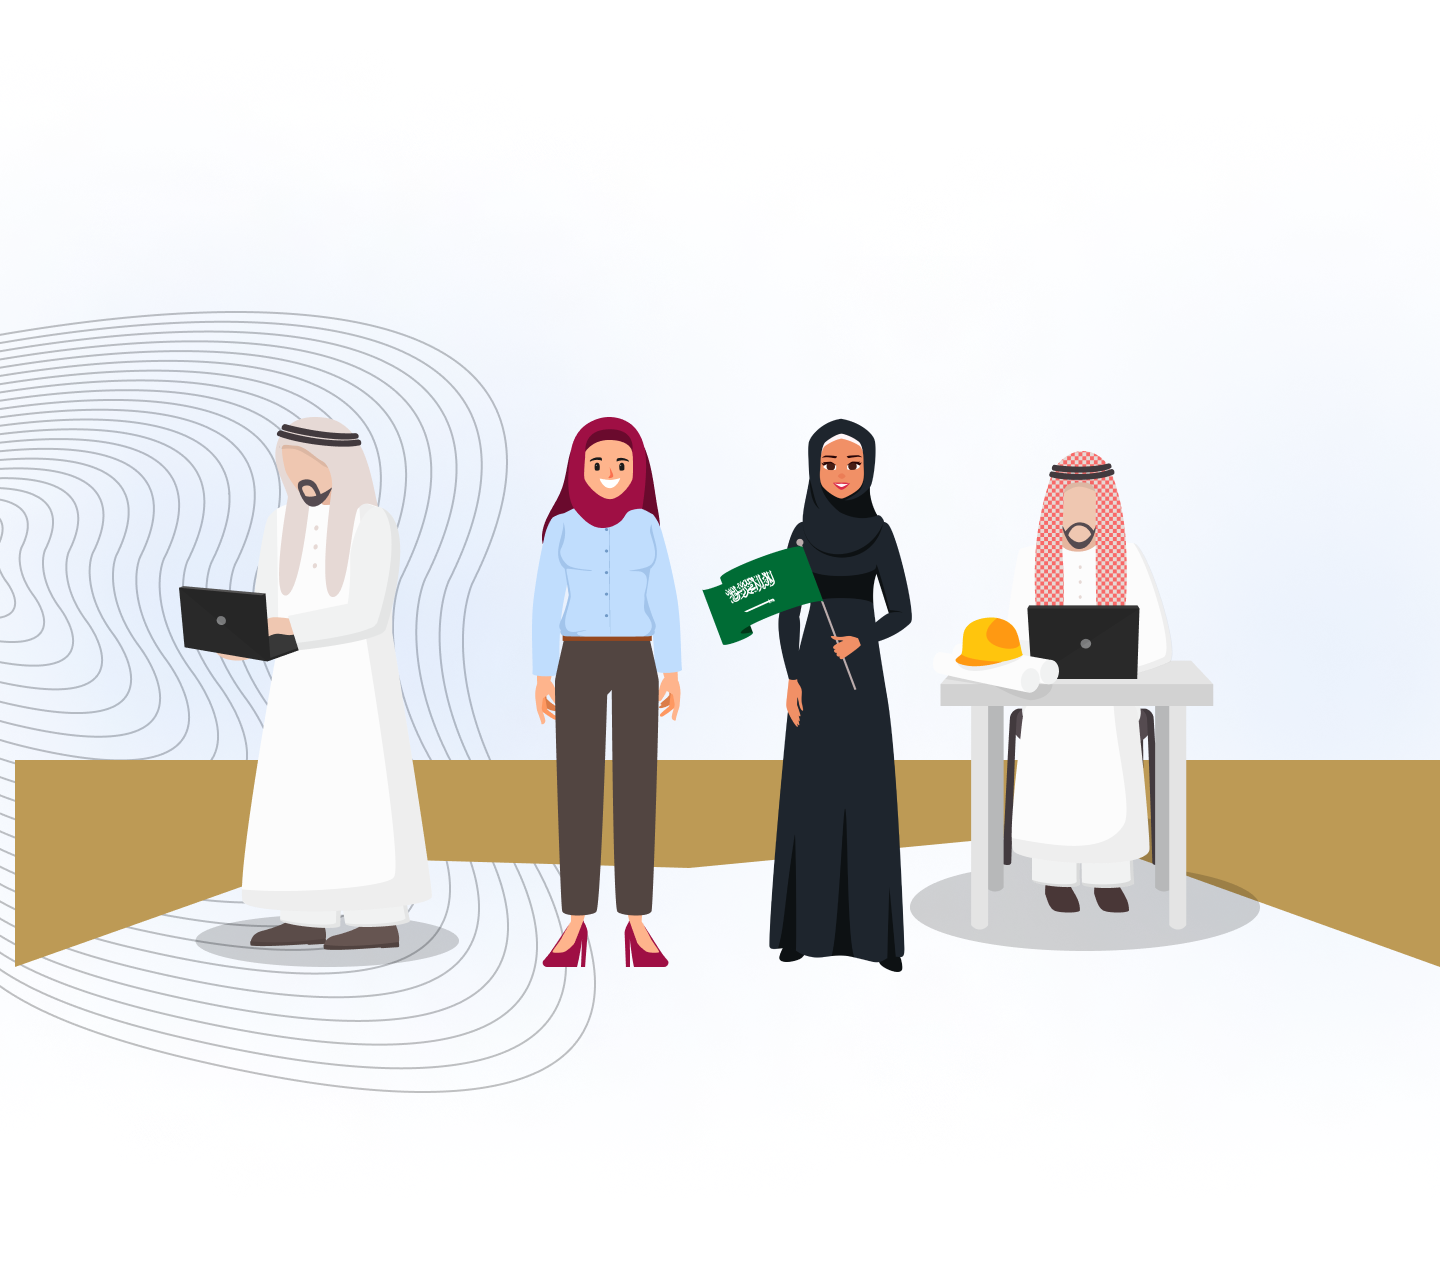
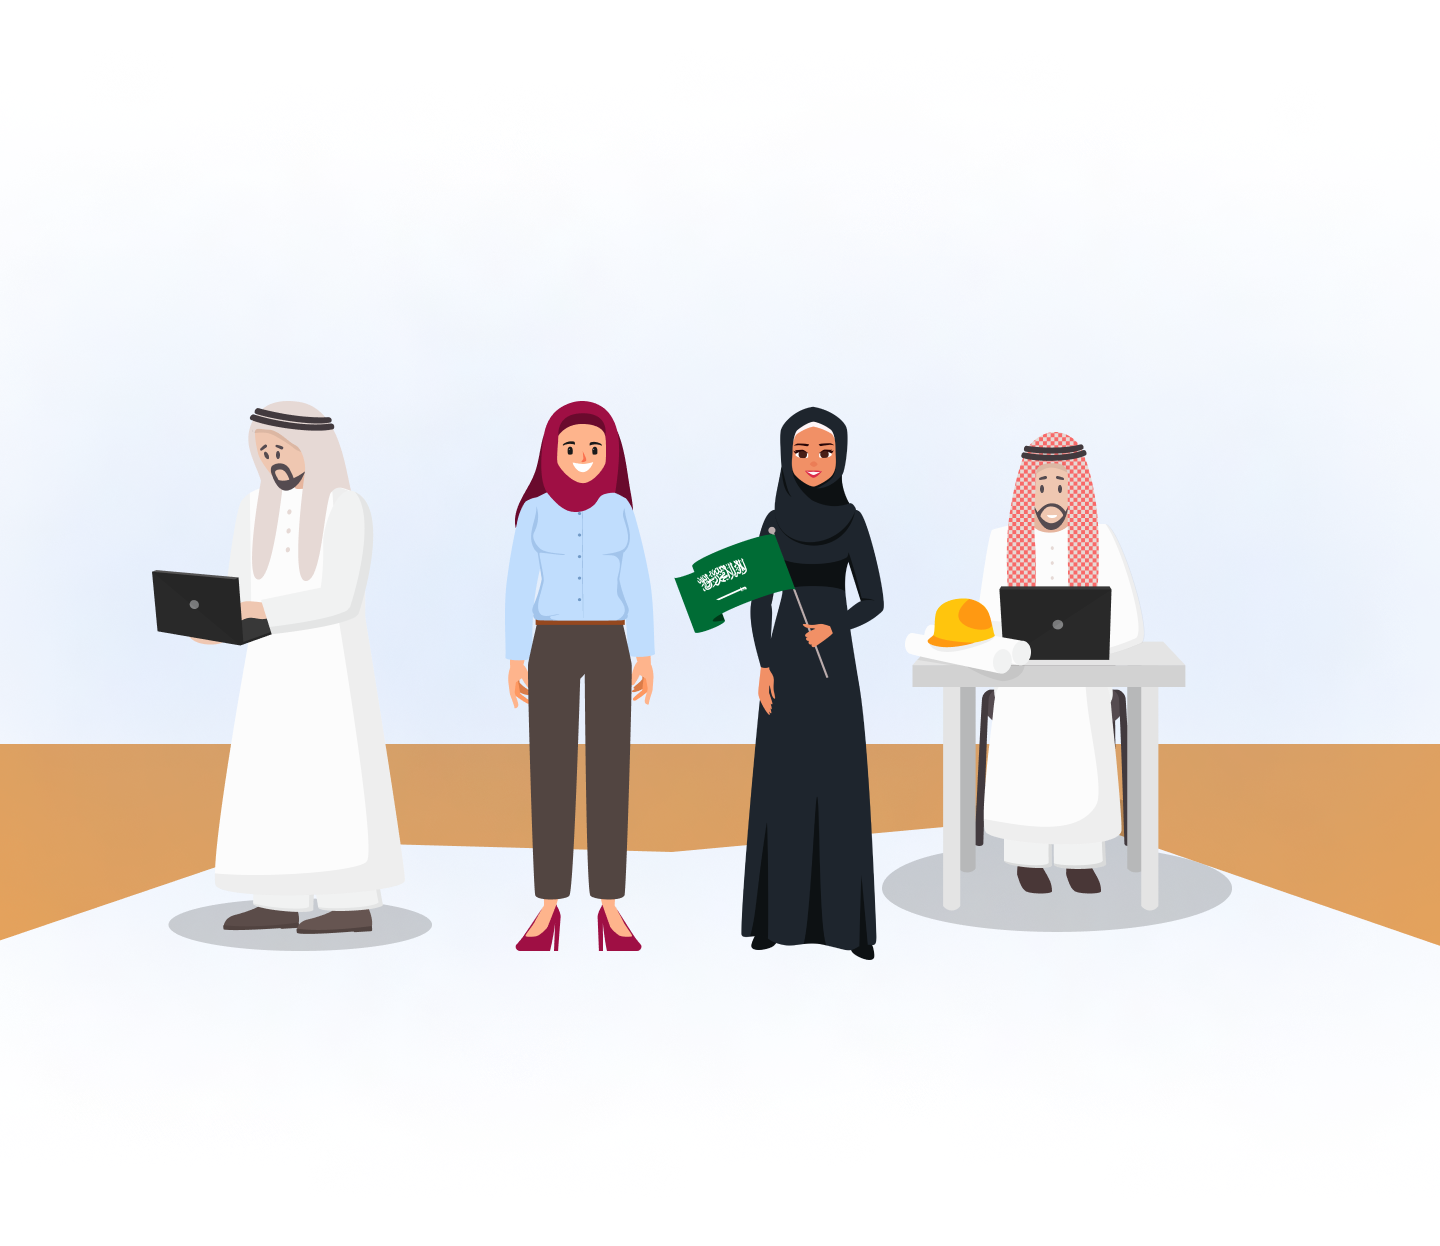
flipping the map image & changing the people image in the landing page

Changed region(s): [[0.0, 0.244, 1.0, 0.8539], [0.2188, 0.8234, 0.3125, 0.8539], [0.0, 0.4575, 0.0625, 0.488]]

diff --git a/src/app/website/landingpage/landingpage.component.ts b/src/app/website/landingpage/landingpage.component.ts
@@ -22,6 +22,17 @@ constructor(private elRef: ElementRef, private renderer: Renderer2, private tran
         this.SelectCountry(this.countries[i]);
         this.changecolor(this.countries[i]);
         if( i == 2){
+          switch (localStorage.getItem('language')) {
+            case 'en':
+              document.getElementById('map')?.classList.add("flip-image");
+            break;
+            case 'ar':
+              document.getElementById('map')?.classList.remove("flip-image");           
+            break;
+            default:
+              document.getElementById('map')?.classList.remove("flip-image");
+            break;
+          }
           i = 0; 
        }else {
         i++;
@@ -52,7 +63,6 @@ SelectCountry(map:string){
 
 changecolor(id:string){
   document.getElementById(`${id}`)!.classList.add('textofmap');
-
   }
 
 }

diff --git a/src/app/website/landingpage/landingpage.component.html b/src/app/website/landingpage/landingpage.component.html
@@ -292,7 +292,7 @@
     <div class="seconddiv">
       <div class="container row">
     <div class="col-lg-6 col-md-12 px-0">
-      <img [src]="map " class="w-100" alt="map">
+      <img [src]="map" class="w-100" id="map" alt="map">
     </div>
     <div class="col-lg-6 col-md-12">
       <div class="text-end fs-3 location">
@@ -314,7 +314,7 @@
                         </p>
           </div>
           <div class="col-3 px-lg-4">
-            <img src="assets/images/UAE.png" (click)="SelectCountry('uae')" class="w-100" alt="">
+            <img src="assets/images/UAE.png" (click)="SelectCountry('uae')" class="w-100 " alt="">
           </div>
         </div>
         <br>

diff --git a/src/app/website/landingpage/landingpage.component.css b/src/app/website/landingpage/landingpage.component.css
@@ -13,6 +13,9 @@
 	background-color: transparent;
 	padding: 2%;
   }
+  .flip-image {
+	transform: scaleX(-1);
+  }
   
   .btn1{
 	background-color: #BD9A55;
